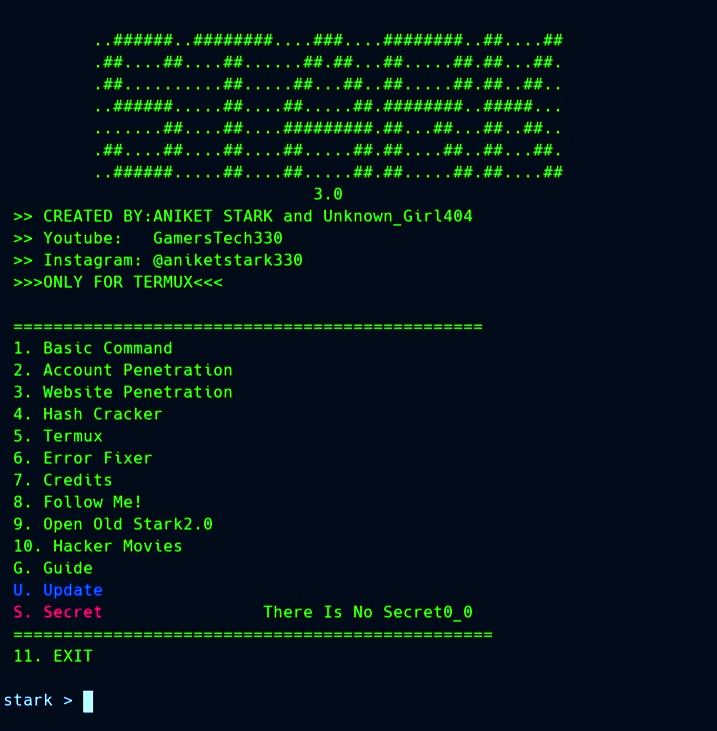
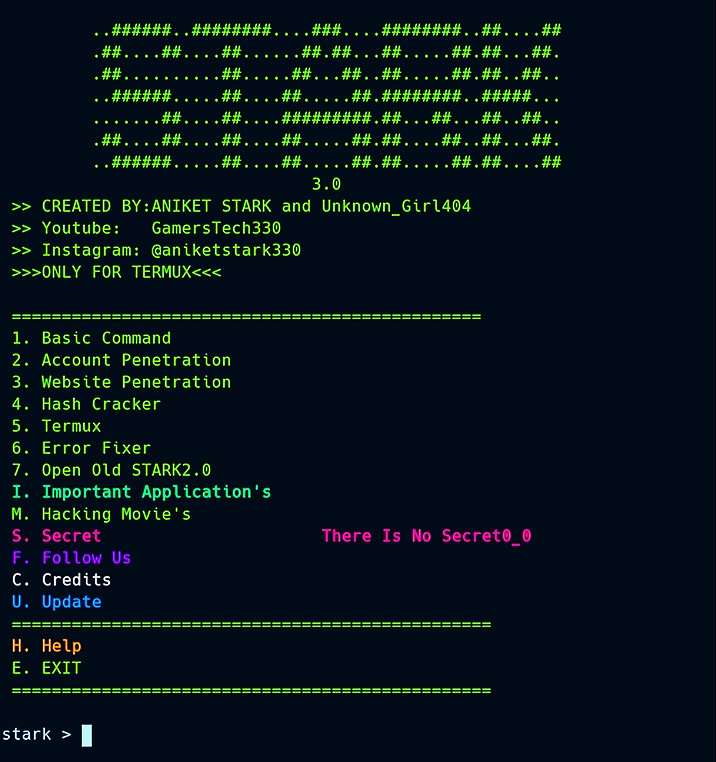
added loops in some section, interface change, add new section importan apps for android

Changed region(s): [[0.0, 0.0301, 0.7989, 0.9932], [0.4302, 0.6922, 0.7374, 0.7223]]

diff --git a/core/starkmcore.py b/core/starkmcore.py
@@ -36,22 +36,38 @@ def printslow(str):
         sys.stdout.flush()
         time.sleep(0.1)
 
-backtomenubanner = """
-BACK TO MENU ?
-[1] YES
-[2]  NO"""
 
 def backtomenu():
-        print backtomenubanner
+        print(colored("""BACK TO MENU ?\n1. Yes\n2. No\n""","green"))
         backtomenu = raw_input("stark > ")
-        if backtomenu == "1":
-                restartprogram()
-        elif backtomenu == "2":
+        if backtomenu == "1" or backtomenu == "y":
+			reset()
+        elif backtomenu == "2" or backtomenu == "n":
                 sys.exit()
         else:
                 print (colored("ERROR: WRONG COMMAND BRO.?",'red'))
                 time.sleep(2)
-                restartprogram()
+                reset()
+
+
+PATH1='./modules/apps'
+
+def checkofflineapp():
+ if os.path.isdir(PATH1) and os.access(PATH1, os.R_OK):
+    print(colored(""""offline downloads are available""","green"))
+ else:
+	print(colored("""Looks like you didn't download some offline apps\n""","red", attrs=['bold']))
+	print(colored("""Do you want to download some application as offline Y/N\n""","green"))
+	checkoff = raw_input("ans > ")
+	if checkoff == "y" or checkoff == "Y":
+		os.system("wget https://www.dropbox.com/s/4sjxgndgziagsjt/apps.zip")
+		os.system("unzip apps.zip")
+		os.system("rm -rf apps.zip")
+		os.system("mv apps modules/")
+		reset()
+	elif checkoff == "n" or checkoff == "N":
+		print(colored("""ok""","green"))
+ 
 ###################Basic Command
 
 def BasicC():
@@ -134,22 +150,31 @@ def flash():
 	1. On
 	2. Off
 	===============
+	H. Help
 	B. Back
 	===============
  ""","green"))
  torch = raw_input("stark >")
  if torch == "1":
   os.system("termux-torch on")
+  os.system("clear")
   flash()
  elif torch == "2":
   os.system("termux-torch off")
+  os.system("clear")
   flash()
+ elif torch == "h" or torch == "H":
+	 printslow(colored("""Reason's of flash light not turning on\n1. Termux-Api package and app is not installed\n2. Your running screen recorder or camera in background\n""","green"))
+	 time.sleep(5)
+	 os.system("clear")
+	 flash()
  elif torch == "b" or torch == "B":
+	 os.system("clear")
 	 BasicC()
 
 def battery():
  os.system("termux-battery-status")
- time.sleep(5)
+ backtomenu()
 
 
 def cphoto():
@@ -406,7 +431,7 @@ def Termux():
   
  elif term == "0":
   reset()
-###################Error Fixe
+###################Error Fixer Section
 
 def EFixer():
  os.system("clear")
@@ -506,3 +531,155 @@ def movie():
  elif moviem == "4":
    os.system("termux-open https://g.co/kgs/cG8iTQ")
 
+##############Important application for android
+def impapp():
+ os.system("clear")
+ print colored("""
+ ========================================""","white"), colored("""
+         Importan Apps For Android       ""","magenta", attrs=['bold']), colored("""
+ ========================================""","white"), colored("""
+ 1. Photoshop LightRoom           Mod
+ 2. Background Remover
+ 3. Kinemaster                    Mod
+ 4. Image Compressor size reducer
+ 5. Media Convertor
+ 6. Screen Rotation Controller
+ 7. IDM Downloader
+ 8. NewPipe (YT Downloader)
+ 9. World Radio""","green", attrs=['bold']), colored("""
+ ========================================""","white"), colored("""
+ E. Exit""","red", attrs=['bold']), colored("""
+ ========================================""","white")
+ impapk = raw_input("App > ")
+ if impapk == "1":
+	 print colored("""
+	 ========================
+	 1. Server 1
+	 2. Server 2
+	 3. offline server
+	 ========================""","green")
+	 s = raw_input("server > ")
+	 if s == "1":
+		 os.system("termux-open https://moddroid.com/adobe-photoshop-lightroom-cc-1.html")
+		 impapp()
+	 if s == "2":
+		 os.system("termux-open https://www.google.com/amp/s/apkdone.com/adobe-lightroom/amp/")
+		 impapp()
+	 if s == "3":
+		 os.system("termux-open modules/apps/ps_lightroom.apk")
+		 impapp()
+		 
+ elif impapk == "2":
+	 print colored("""
+	 ========================
+	 1. Server 1
+	 3. offline server
+	 ========================""","green")
+	 s = raw_input("server > ")
+	 if s == "1":
+		 os.system("termux-open https://play.google.com/store/apps/details?id=com.handycloset.android.eraser")
+		 impapp()
+	 elif s == "2":
+		 os.system("termux-open modules/apps/bg_remover.apk")
+		 impapp()
+		 
+ elif impapk == "3":
+	 print colored("""
+	 ========================
+	 1. Server 1
+	 2. Server 2
+	 3. offline server
+	 ========================""","green")
+	 s = raw_input("server > ")
+	 if s == "1":
+		 os.system("termux-open https://rexdl.com/android/kinemaster-pro-video-editor-apk.html/")
+		 impapp()
+	 elif s == "2":
+		 os.system("termux-open https://moddroid.com/kinemaster-pro-51908.html")
+		 impapp()
+	 elif s == "3":
+		 os.system("termux-open modules/apps/kimemaster.apk")
+		 impapp()
+		 
+ elif impapk == "4":
+	 print colored("""
+	 ========================
+	 1. Server 1
+	 2. offline server
+	 ========================""","green")
+	 s = raw_input("server > ")
+	 if s == "1":
+		 os.system("termux-open https://play.google.com/store/apps/details?id=com.mobso.photoreducer.lite")
+		 impapp()
+	 elif s == "2":
+		 os.system("termux-open modules/apps/imgcompressor.apk")
+		 impapp()
+
+ elif impapk == "5":
+	 print colored("""
+	 ========================
+	 1. Server 1
+	 2. offline server
+	 ========================""","green")
+	 s = raw_input("server > ")
+	 if s == "1":
+		 os.system("termux-open https://play.google.com/store/apps/details?id=com.AndroidA.MediaConverter")
+		 impapp()
+	 elif s == "2":
+		 os.system("termux-open modules/apps/mc.apk")
+		 impapp()
+		 
+ elif impapk == "6":
+	 print colored("""
+	 ========================
+	 1. Server 1
+	 2. offline server
+	 ========================""","green")
+	 s = raw_input("server > ")
+	 if s == "1":
+		 os.system("termux-open https://play.google.com/store/apps/details?id=ahapps.controlthescreenorientation")
+		 impapp()
+	 elif s == "2":
+		 os.system("termux-open modules/apps/screenrotation.apk")
+		 impapp()
+		 
+ elif impapk == "7":
+	 print colored("""
+	 ========================
+	 1. Server 1
+	 2. offline server
+	 ========================""","green")
+	 s = raw_input("server > ")
+	 if s == "1":
+		 os.system("termux-open https://play.google.com/store/apps/details?id=idm.internet.download.manager")
+		 impapp()
+	 elif s == "2":
+		 os.system("termux-open modules/apps/idm.apk")
+		 impapp()
+		 
+ elif impapk == "8":
+	 print colored("""
+	 ========================
+	 1. Server 1
+	 2. Server 2
+	 ========================""","green")
+	 s = raw_input("server > ")
+	 if s == "1":
+		 os.system("termux-open https://newpipe.schabi.org/")
+		 impapp()
+	 elif s == "2":
+		 os.system("termux-open https://github.com/TeamNewPipe/NewPipe")
+		 impapp()
+ elif impapk == "9":
+	 print colored("""
+	 ========================
+	 1. Server 1
+	 2. Website Interface
+	 ========================""","green")
+	 s = raw_input("server > ")
+	 if s == "1":
+		 os.system("termux-open https://play.google.com/store/apps/details?id=com.jonathanpuckey.radiogarden")
+		 impapp()
+	 elif s == "2":
+		 os.system("termux-open http://radio.garden/")
+		 impapp()

diff --git a/stark.py b/stark.py
@@ -31,15 +31,17 @@ def menu():
  4. Hash Cracker
  5. Termux
  6. Error Fixer
- 7. Credits
- 8. Follow Me!
- 9. Open Old Stark2.0
- 10. Hacker Movies
- G. Guide""",'green'),colored("""
- U. Update""",'blue'),colored("""
- S. Secret""",'red'),colored("""               There Is No Secret0_0
+ 7. Open Old STARK2.0""","green"), colored("""
+ I. Important Application's""","cyan", attrs=['bold']), colored("""
+ M. Hacking Movie's""","green"), colored("""
+ S. Secret			There Is No Secret0_0""","red", attrs=['bold']), colored("""
+ F. Follow Us""","magenta", attrs=['bold']), colored("""
+ C. Credits""","white", attrs=['bold']), colored("""
+ U. Update""","blue", attrs=['bold']), colored("""
+ ================================================""","green"), colored("""
+ H. Help""","yellow", attrs=['bold']), colored("""
+ E. EXIT
  ================================================
- 11. EXIT
  """,'green')
 
 loop = True
@@ -65,16 +67,19 @@ while loop:
           Termux()
     elif stark == "6":
           EFixer()
-    elif stark == "7":
+    elif stark == "i" or stark == "I":
+		 checkofflineapp()
+		 impapp()
+    elif stark == "c" or stark == "C":
           Credits()
-    elif stark == "8":
+    elif stark == "f" or stark == "F":
          os.system("clear")
          follow()
-    elif stark == "9":
+    elif stark == "7":
 	 os.system("cd modules/STARK2.0/ && python2 stark.py")
-    elif stark == "10":
+    elif stark == "m" or stark == "M":
 		 movie()
-    elif stark == "11":
+    elif stark == "e" or stark == "E":
         sys.exit()
     elif stark == "secret" or stark == "S" or stark == "s":
 		 printslow(colored("""This Script is open For all only for now\n""","green"))
@@ -86,7 +91,7 @@ while loop:
          os.system("cd core/ && nano starkmcore.py")
     elif stark == "0":
          reset()
-    elif stark == "G" or stark == "g":
+    elif stark == "H" or stark == "h":
          guidemain()
     elif stark == "u" or stark == "U":
 		 printslow(colored("""THIS OPTION WILL UPDATE ONLY MAIN PACKAGES NOT THIS TOOL""","green"))
